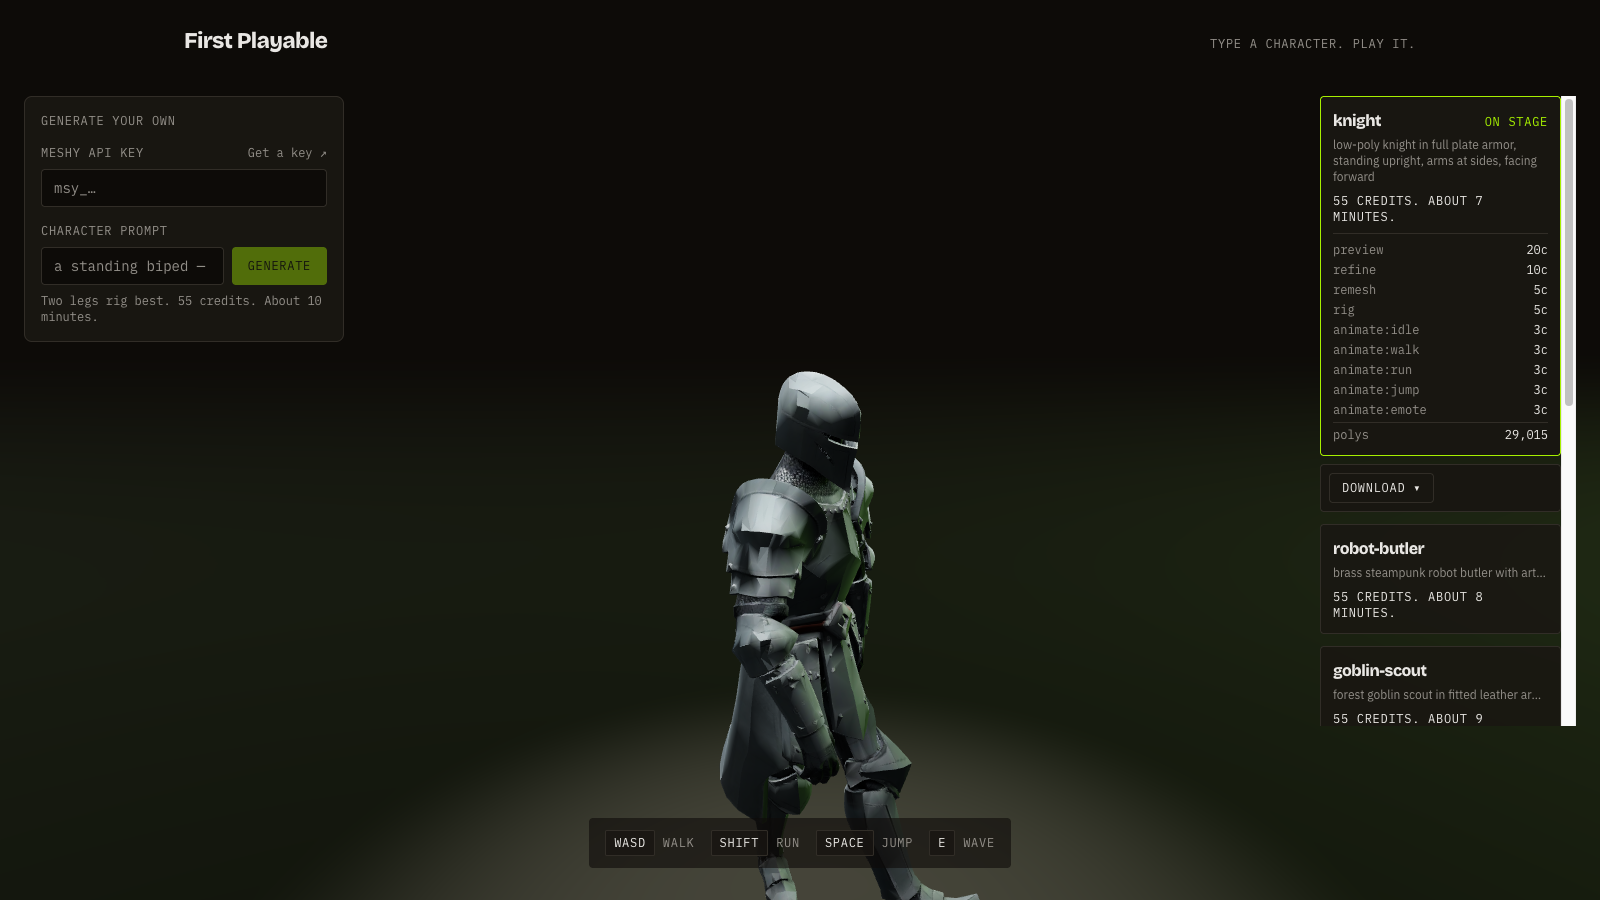
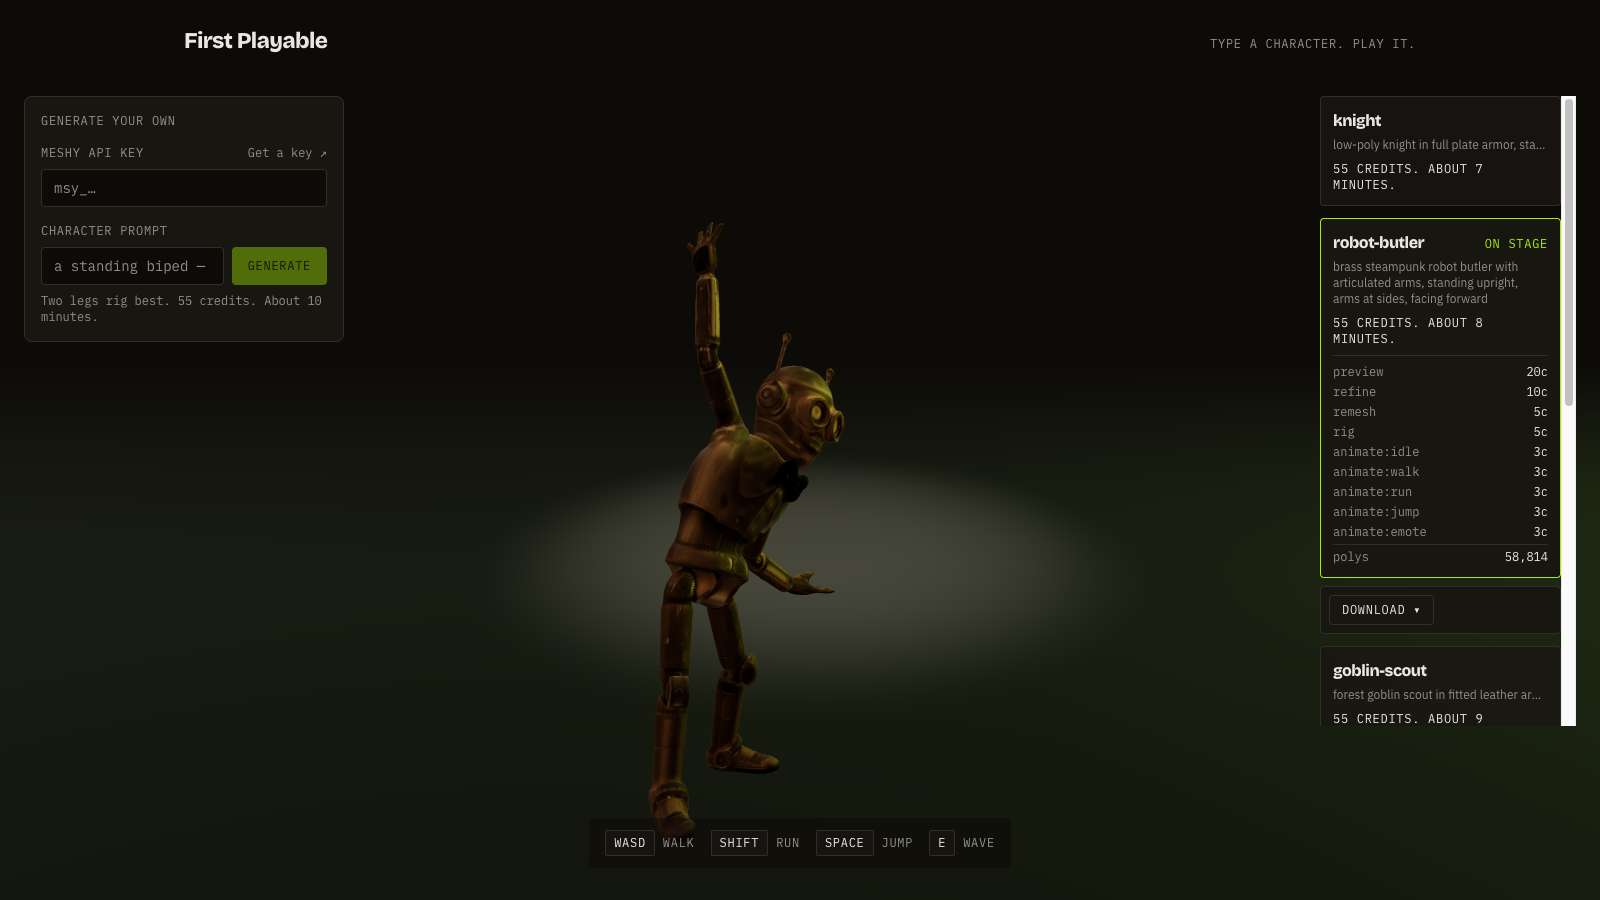
docs: swap README hero media to the robot-butler character
Claude-Session: https://claude.ai/code/session_01P7SX8NthxTcpNbrbK3f1Uw

diff --git a/README.md b/README.md
@@ -2,7 +2,7 @@
 
 **Type a character. Play it.**
 
-![A knight generated from a text prompt, walking around the playable stage](docs/media/hero.gif)
+![A brass robot butler generated from a text prompt, walking and waving on the playable stage](docs/media/hero.gif)
 
 **[▶ Play it live](https://prompt-to-playable.vercel.app)** — no key, no signup. You're driving a character in about 15 seconds.
 
@@ -64,7 +64,7 @@ curl -X POST https://api.meshy.ai/openapi/v2/text-to-3d \
 
 Every request/response the demo makes is visible in the UI — the API panel next to each stage shows the live call with a copyable `curl` (key masked, always). The source of truth for those panels is [`components/pipeline/api-descriptor.ts`](components/pipeline/api-descriptor.ts), which derives each request from the typed client in [`lib/meshy/client.ts`](lib/meshy/client.ts) and is sync-tested against it — the docs can't drift from the code.
 
-![The knight on stage with the pipeline rail and per-stage credit costs](docs/media/hero.png)
+![The robot butler waving on stage, with the pipeline rail and per-stage credit costs](docs/media/hero.png)
 
 ## A few implementation notes
 
